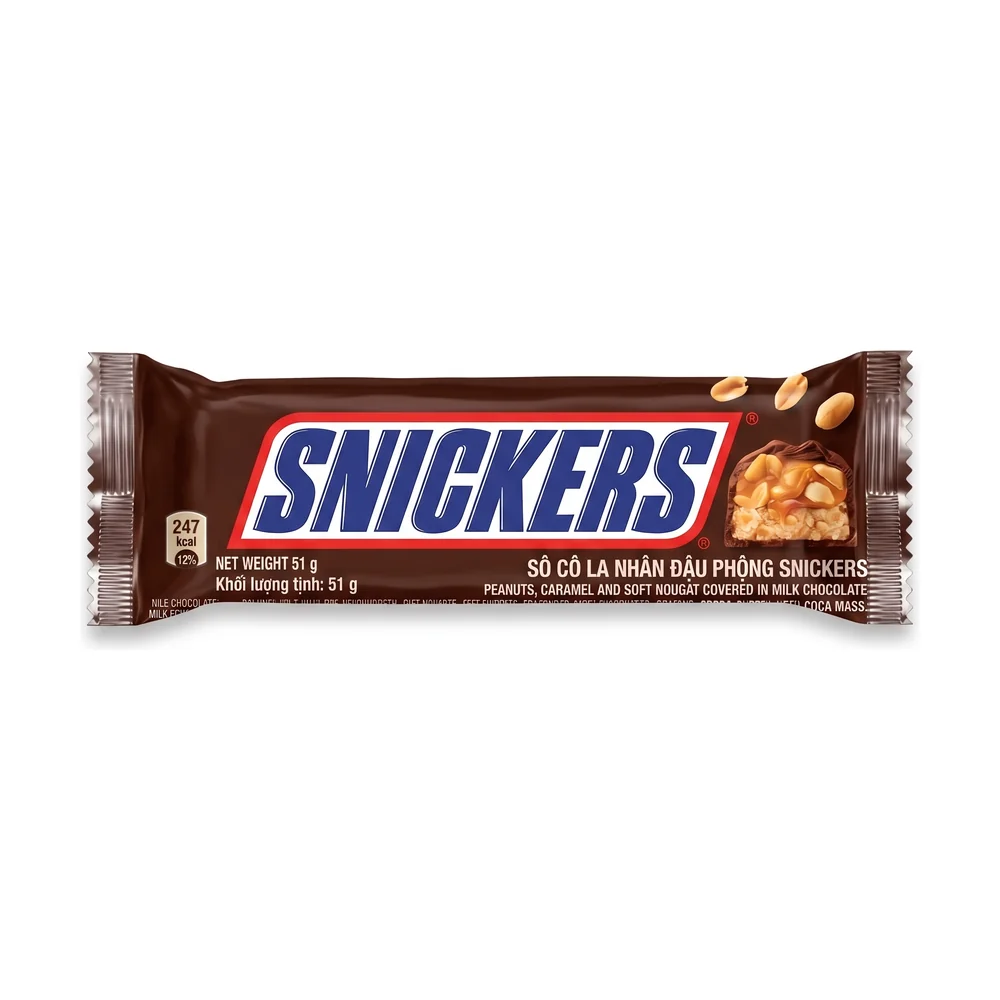
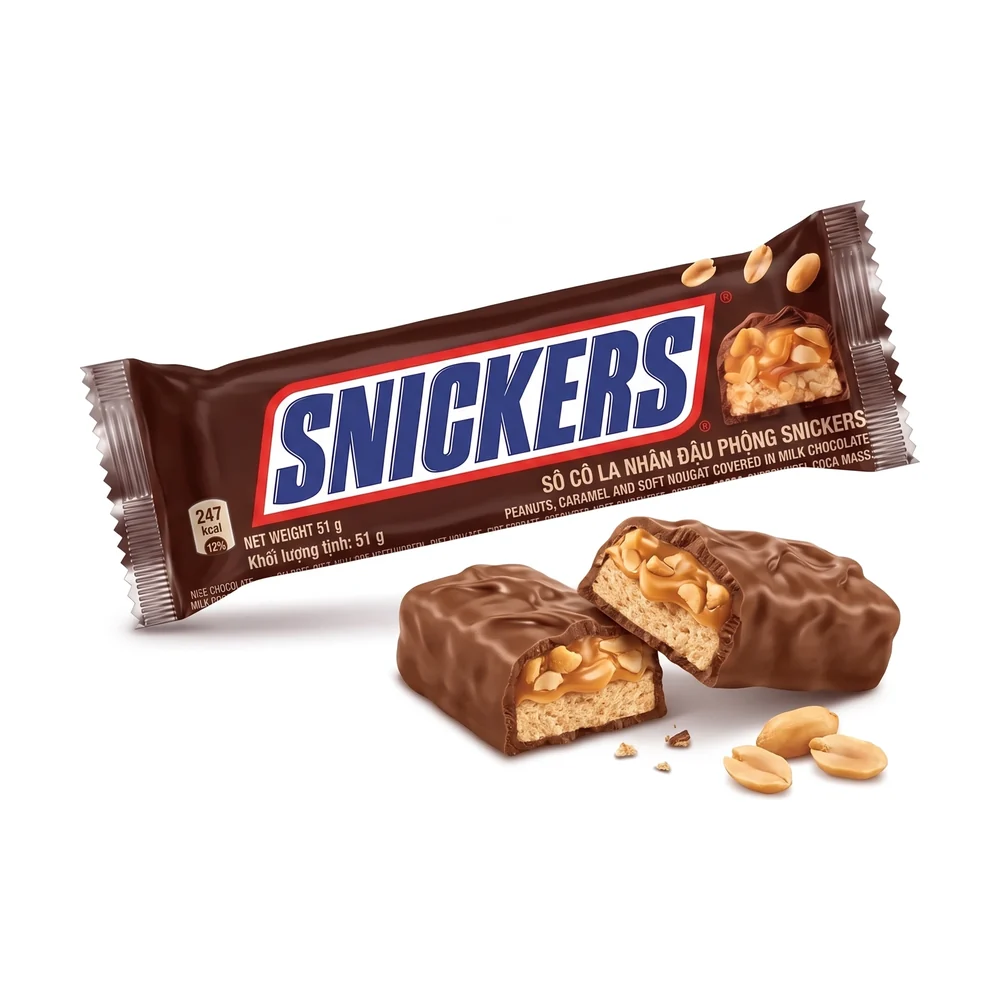
review(2549263-socola-thanh): 3 products — 0 keep, 3 fixed, 0 need photo, 0 asked
Snickers bars in the same diagonal wrapper + unwrapped bar layout as KitKat.

Claude-Session: https://claude.ai/code/session_01DMTF5GjS3P9om8RxKa1WuX

Changed region(s): [[0.062, 0.186, 0.93, 0.806]]

diff --git a/STATUS.md b/STATUS.md
@@ -2,7 +2,7 @@
 
 > Sinh tự động bởi `node tools/status.mjs`. **Không sửa tay.** Nguồn sự thật là `meta.json` của từng SP.
 
-Tổng 2502 SP · đã xem 2502 (100%) · xong 2301 · chờ chủ duyệt 23 · cần chụp 177 · hỏi chủ 1
+Tổng 2502 SP · đã xem 2502 (100%) · xong 2298 · chờ chủ duyệt 26 · cần chụp 177 · hỏi chủ 1
 
 Thứ tự làm: từ trên xuống (doanh số 90 ngày giảm dần). `xong` = giữ nguyên + đã lên web.
 
@@ -11,7 +11,7 @@ Thứ tự làm: từ trên xuống (doanh số 90 ngày giảm dần). `xong` =
 | 1 | Snack khoai tây | 0.0tr | 75 | 0 | 0 | 0 | 1 | 0 | 0 | 0 | 74 |
 | 2 | Snack bắp & phồng | 0.0tr | 66 | 0 | 0 | 0 | 3 | 1 | 2 | 0 | 60 |
 | 3 | Kem que | 0.0tr | 61 | 0 | 0 | 0 | 1 | 0 | 0 | 0 | 60 |
-| 4 | Socola thanh | 0.0tr | 53 | 0 | 7 | 0 | 0 | 0 | 5 | 0 | 41 |
+| 4 | Socola thanh | 0.0tr | 53 | 0 | 7 | 0 | 0 | 0 | 8 | 0 | 38 |
 | 5 | Snack đậu phộng / hạt‑đậu | 0.0tr | 47 | 0 | 0 | 0 | 1 | 0 | 0 | 0 | 46 |
 | 6 | Viên ngậm thảo mộc / bạc hà | 0.0tr | 44 | 0 | 0 | 0 | 2 | 0 | 0 | 0 | 42 |
 | 7 | Kẹo dẻo / jelly | 0.0tr | 44 | 0 | 0 | 0 | 12 | 0 | 0 | 0 | 32 |
